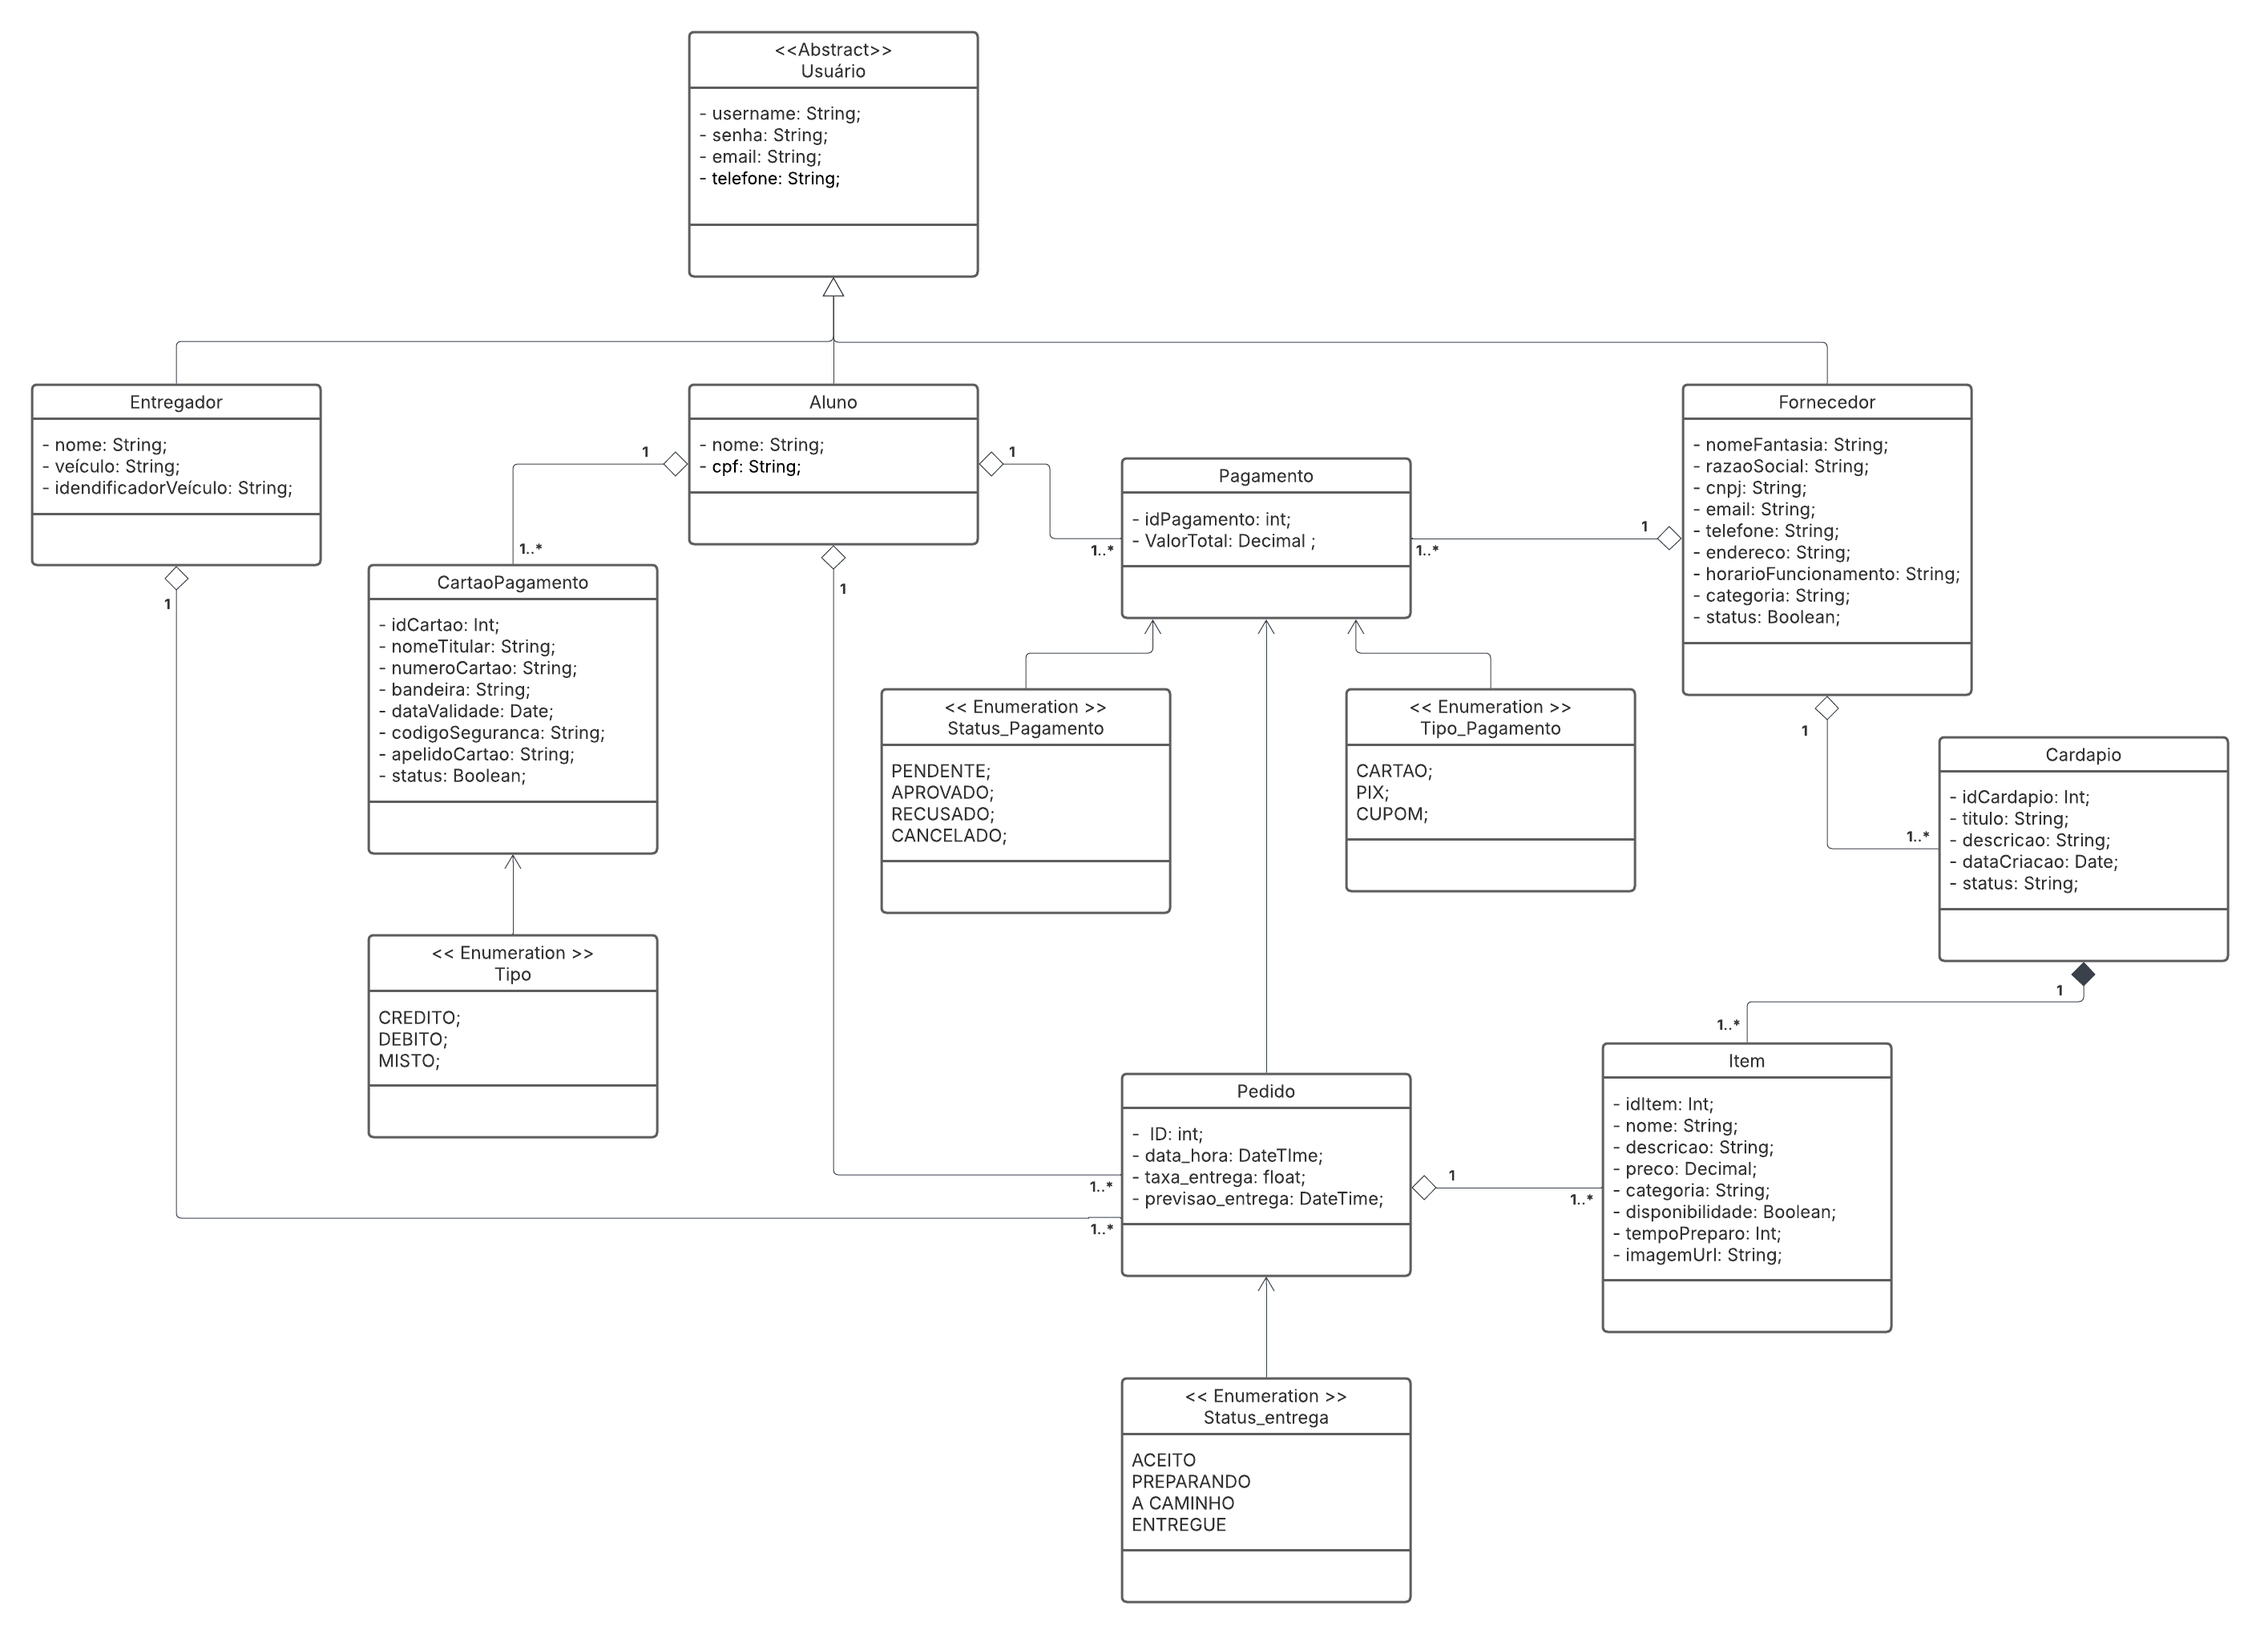
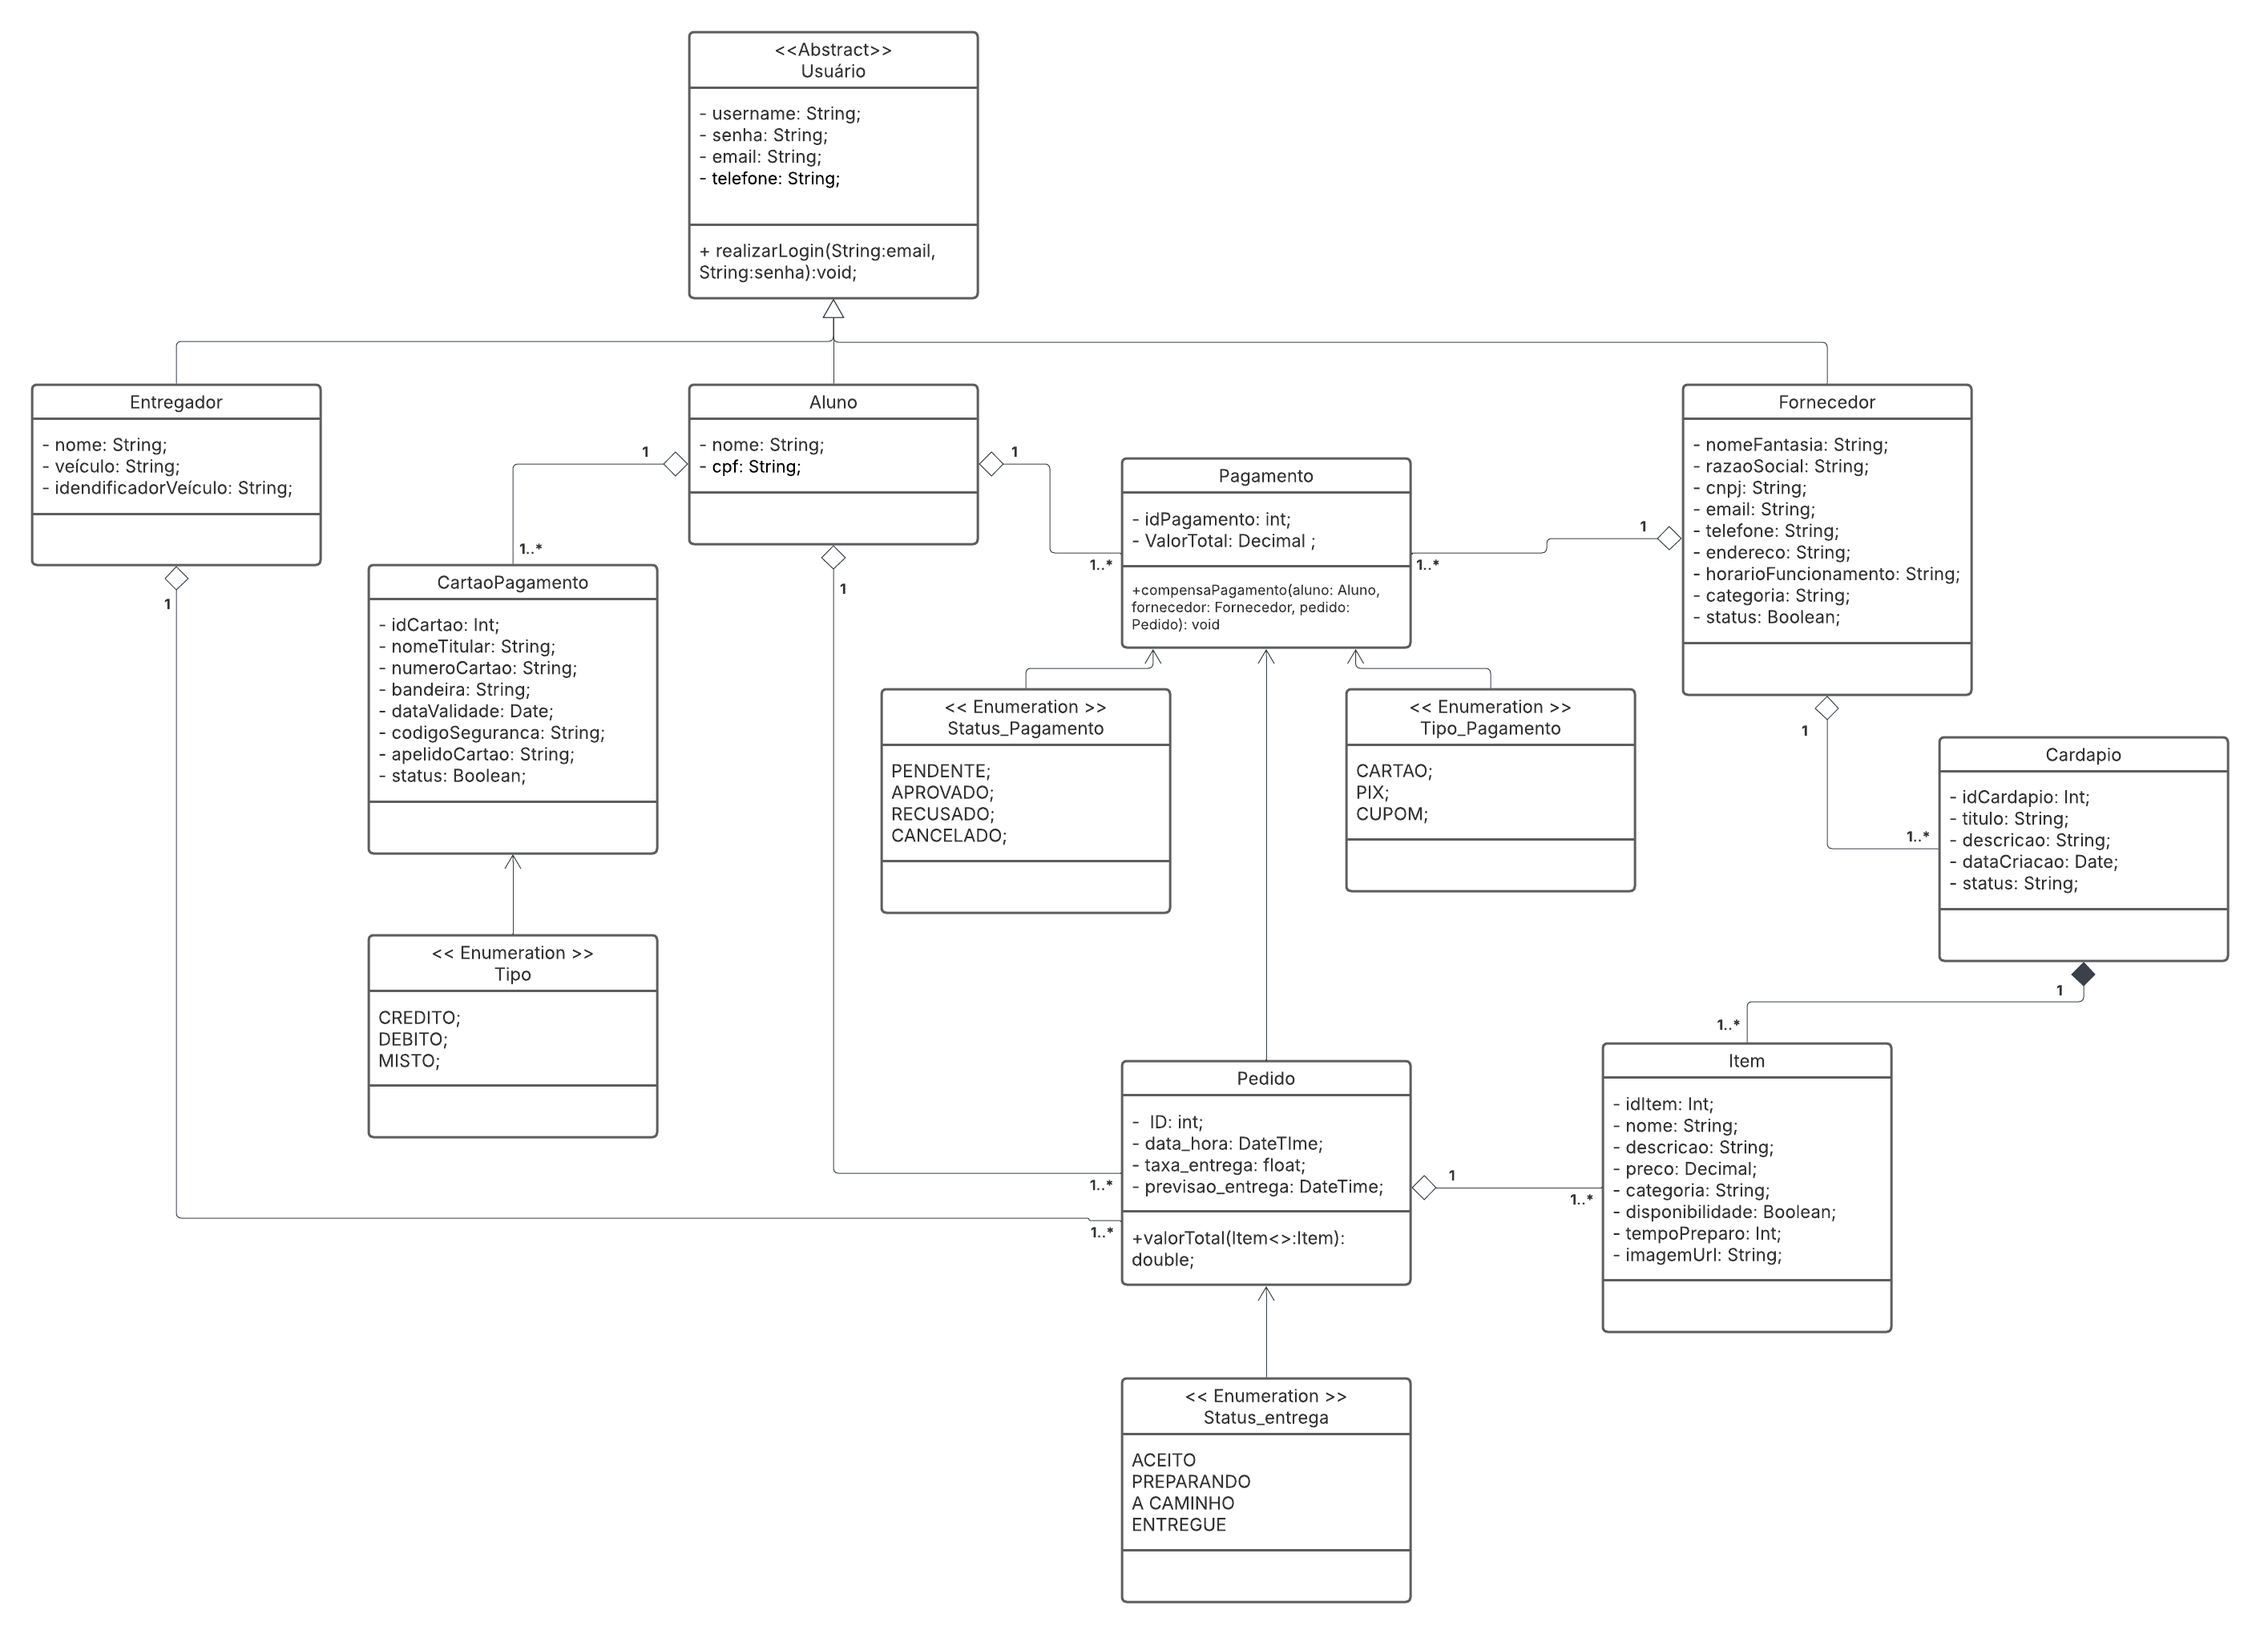
Fix diagrama classes

Changed region(s): [[0.4993, 0.6488, 0.6241, 0.8033], [0.4993, 0.3399, 0.6241, 0.4017], [0.3121, 0.1545, 0.4369, 0.1854]]

diff --git a/docs/Modelagem/ModelagemEstatica/DiagramaDeClasses.md b/docs/Modelagem/ModelagemEstatica/DiagramaDeClasses.md
@@ -30,6 +30,8 @@ O diagrama abaixo mostra a estrutura geral do sistema, evidenciando as relaçõe
 
 </p>
 
+* Métodos **set e get** estão subentendidos na modelagem de classes e, portanto, foram omitidos do diagrama.
+
 ### Classes
 
 Após observar a visão geral, é importante detalhar cada classe individualmente. 
